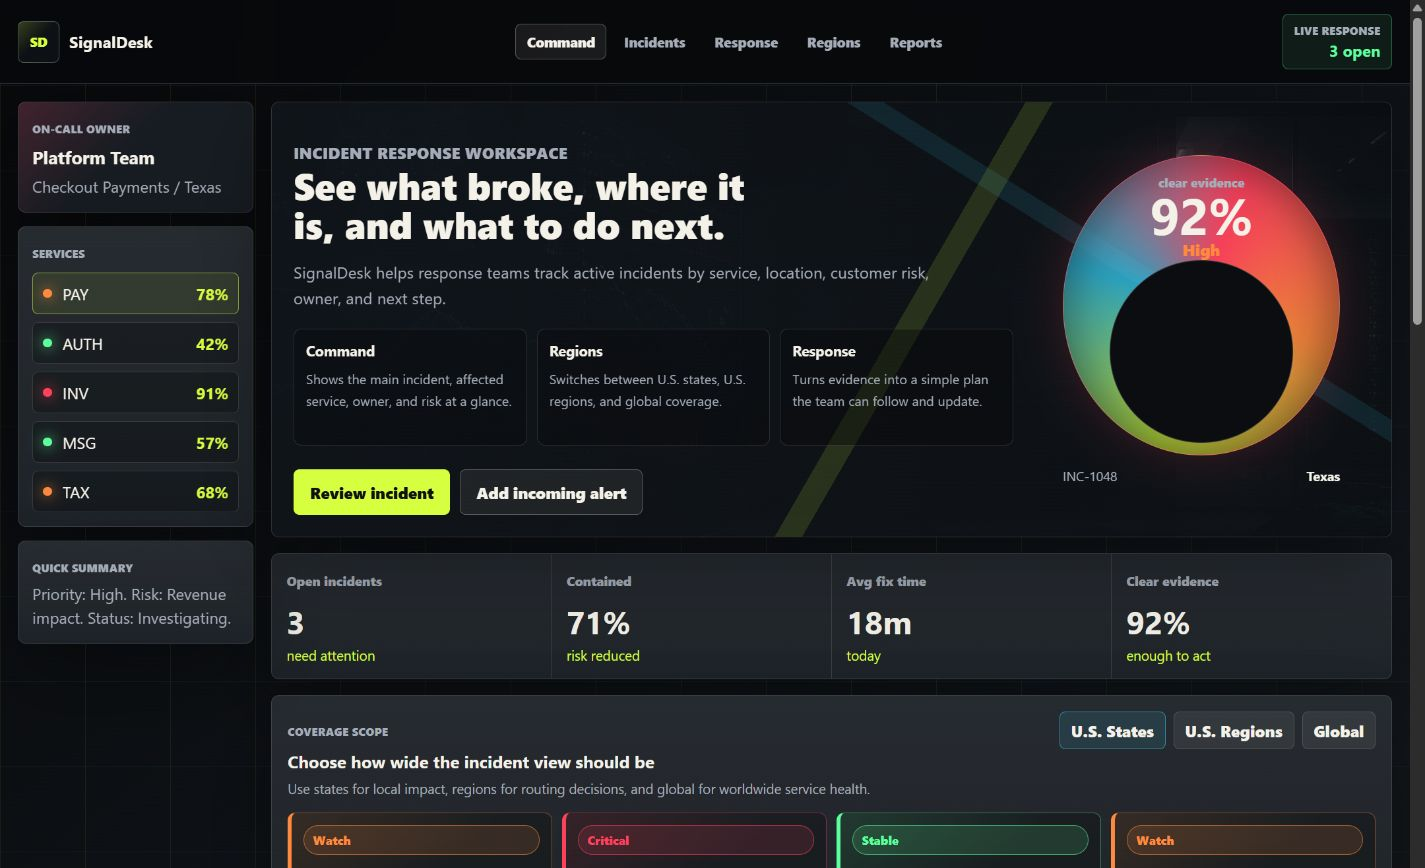
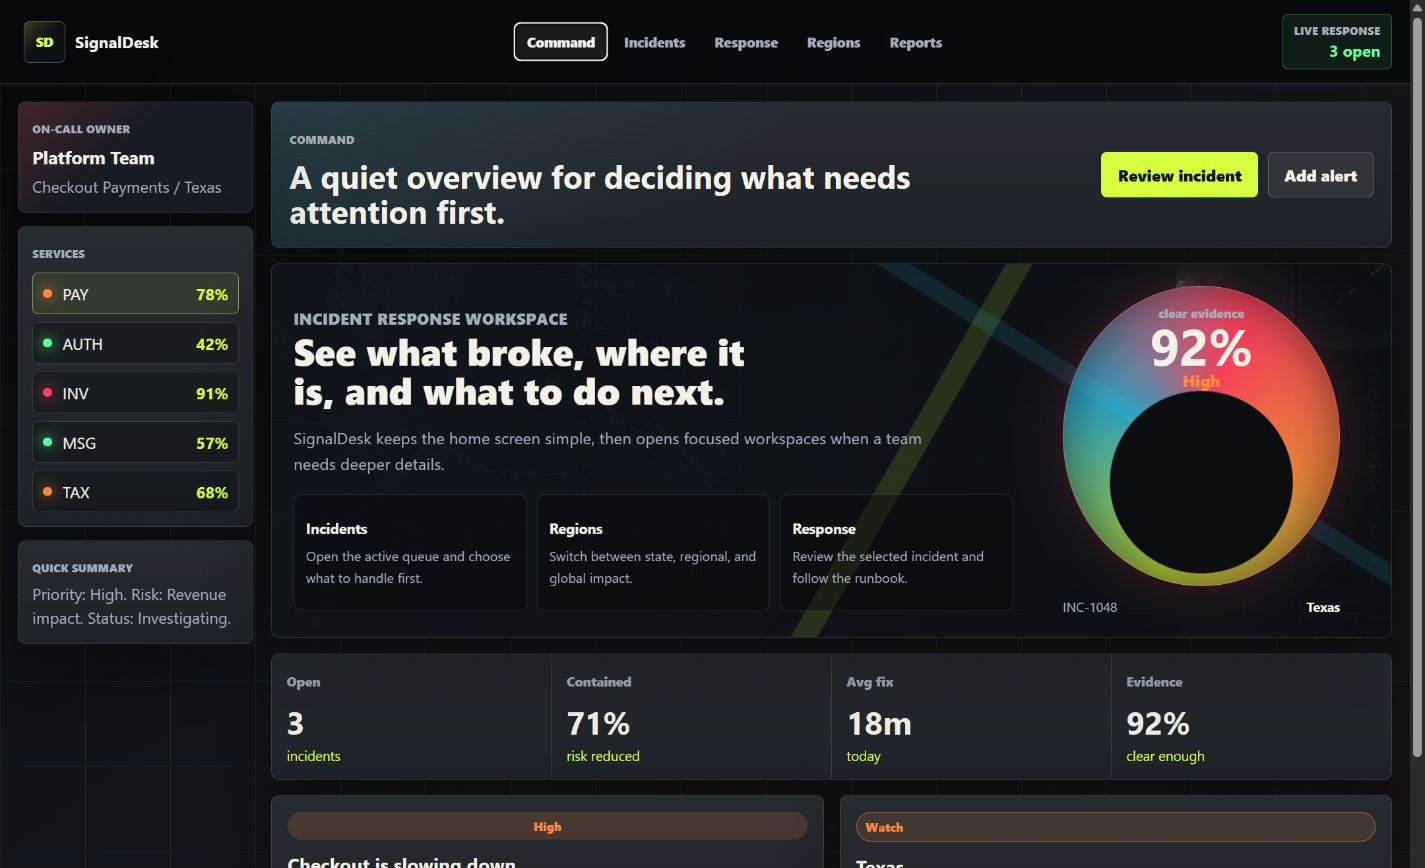
Refresh SignalDesk portfolio card

Changed region(s): [[0.1853, 0.0622, 1.0, 1.0], [0.0, 0.0311, 0.1235, 0.0622], [0.3705, 0.0, 0.4014, 0.0311]]

diff --git a/index.html b/index.html
@@ -285,7 +285,7 @@
             <img
               class="signaldesk-shot"
               src="assets/signaldesk-preview.png"
-              alt="SignalDesk incident response workspace showing command summary, service health, coverage scope, and response metrics"
+              alt="SignalDesk command workspace showing app navigation, incident summary, service health, and response shortcuts"
             />
           </div>
           <div class="project-content">
@@ -296,29 +296,28 @@
                 <h3>SignalDesk</h3>
               </div>
               <p>
-                A production-style response dashboard that helps teams see what
-                broke, where customers are affected, who owns the incident, and
-                what action should happen next.
+                A production-style response workspace with focused screens for
+                command, incidents, response plans, regions, and reports.
               </p>
               <div class="detail-grid" aria-label="SignalDesk project details">
                 <div>
                   <strong>Problem</strong>
-                  <span>Incident data is often scattered across alerts, logs, service dashboards, and team handoffs.</span>
+                  <span>Incident data is often scattered across alerts, logs, service views, and team handoffs.</span>
                 </div>
                 <div>
                   <strong>Build</strong>
-                  <span>Created service health, active incident selection, U.S./global coverage, response plans, runbooks, and status updates.</span>
+                  <span>Created a compact command home plus separate taskbar views for incidents, response, U.S./global coverage, and reports.</span>
                 </div>
                 <div>
                   <strong>Focus</strong>
-                  <span>Kept the interface useful and easy to explain with clear labels, section navigation, and plain next-step recommendations.</span>
+                  <span>Kept the home screen light while deeper information opens only when the user chooses that workspace.</span>
                 </div>
               </div>
             </div>
             <div class="feature-details">
               <ul class="project-list">
                 <li>Built with Next.js, React, TypeScript, and custom CSS.</li>
-                <li>Includes working navigation, incident filters, coverage scope switches, service map selection, and response status actions.</li>
+                <li>Includes working app navigation, incident filters, coverage scope switches, service map selection, and response status actions.</li>
                 <li>Uses a server-side review route to return a plain-language response recommendation.</li>
               </ul>
               <div class="tag-row" aria-label="SignalDesk technology stack">

diff --git a/README.md b/README.md
@@ -13,7 +13,7 @@ Portfolio live site: https://fidel-portfolio-eta.vercel.app/
 ## Projects Included
 
 - SnapChef: full-stack AI food image assistant with live site
-- SignalDesk: incident response workspace with service health, U.S./global coverage, runbooks, and response recommendations
+- SignalDesk: incident response workspace with separate command, incidents, response, regions, and reports views
 - StudyOps: live browser study command center with files, notes, tasks, flashcards, quiz filters, backups, Panic Mode planning, and updated dashboard screenshot
 - Campus Connect: campus networking platform with simplified navigation and grouped student hub actions
 - Arcane Duel: browser canvas gesture-combat game
